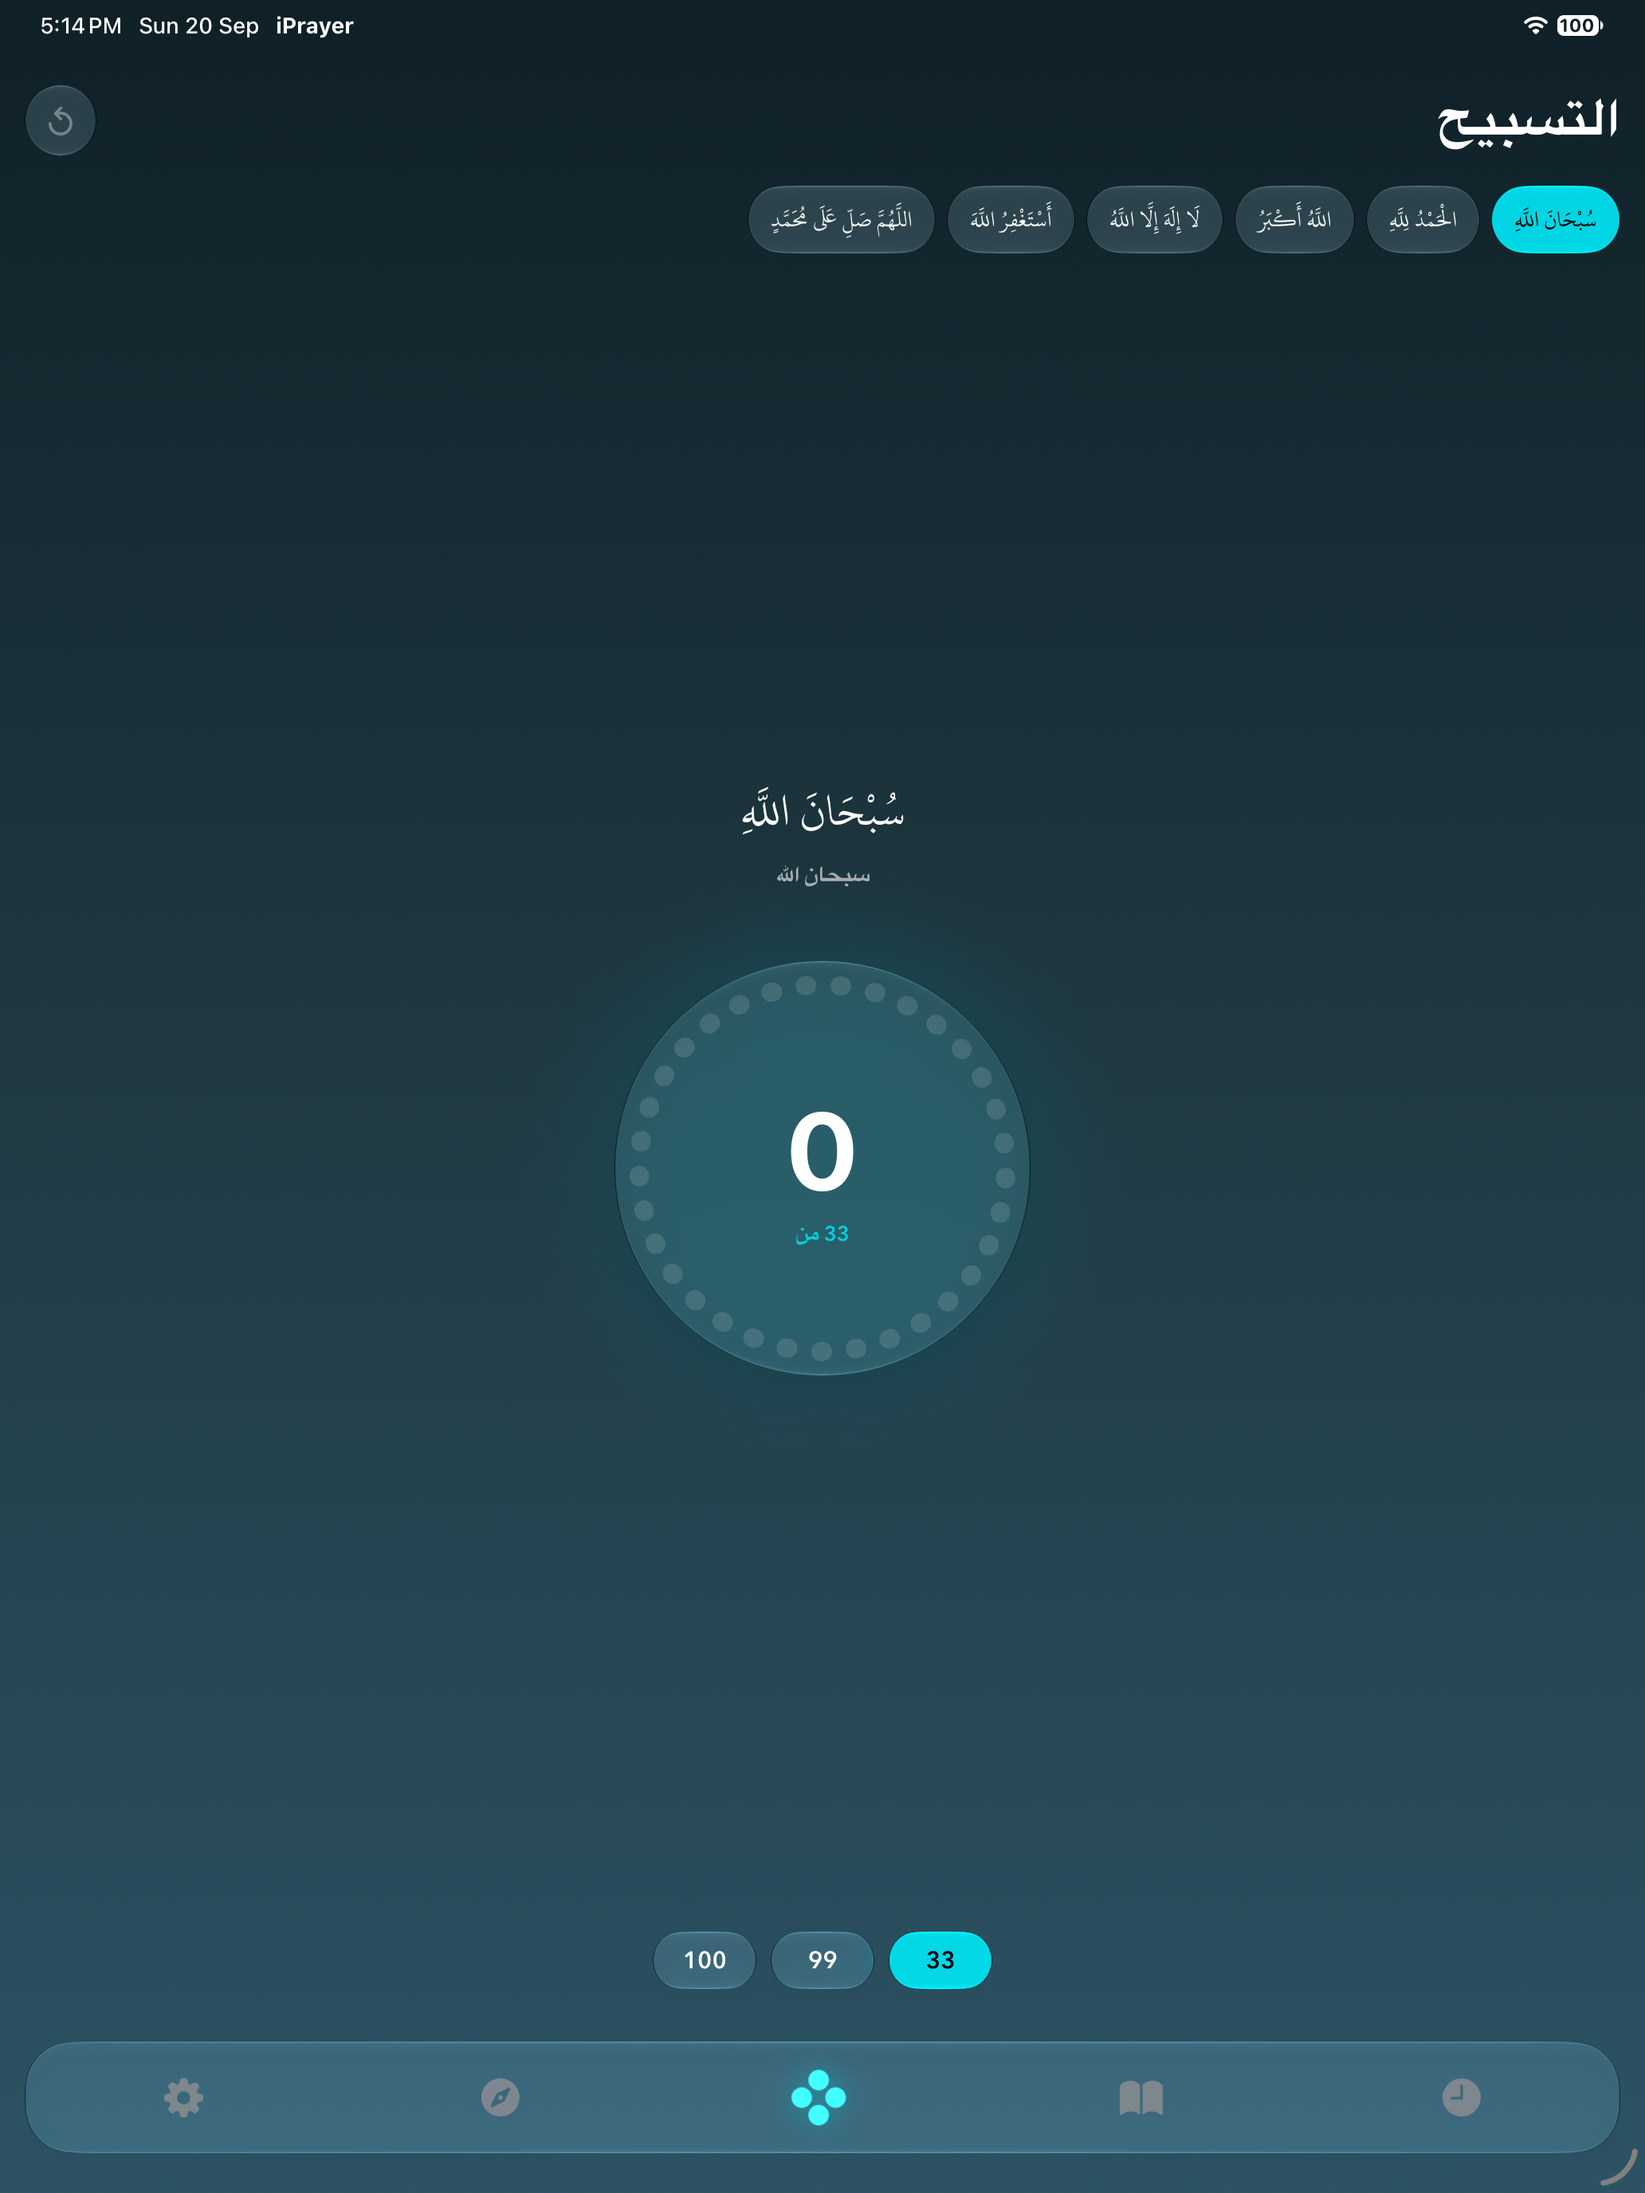
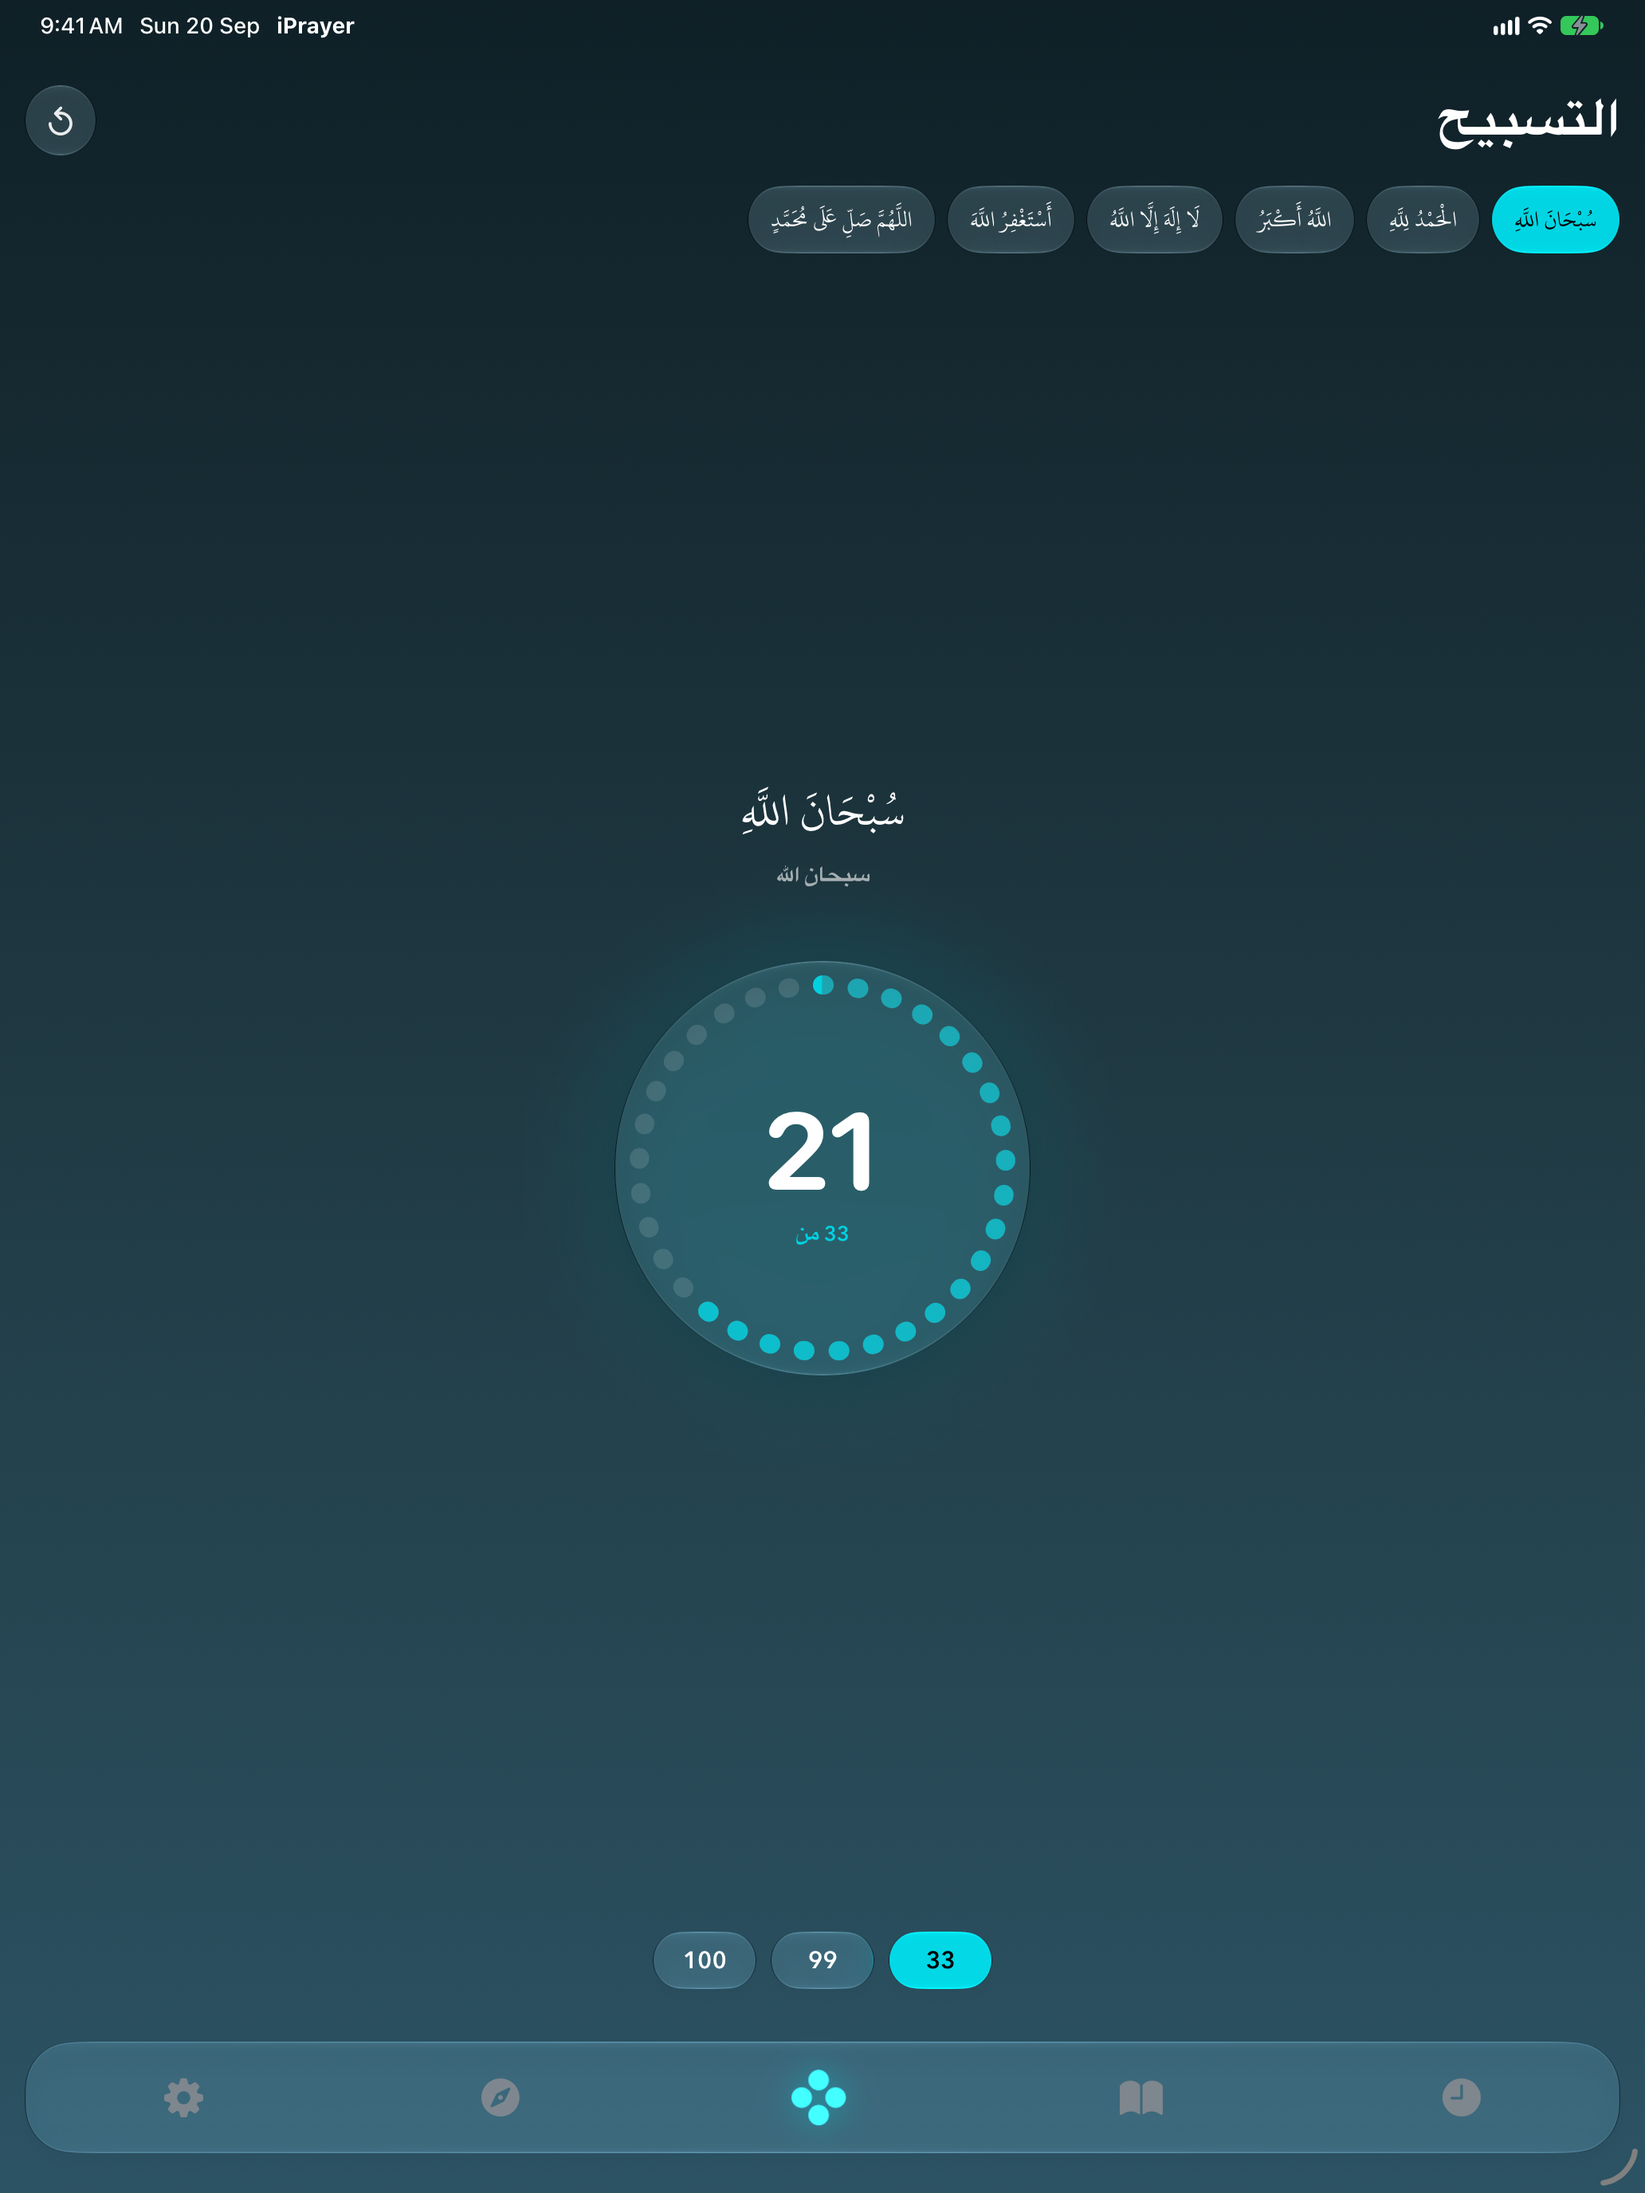
Tasbih: the bead ring fills clockwise in Arabic too
Same mechanism as the Qibla dial. A trimmed, rotated Circle is drawn geometry,
and a right-to-left layoutDirection mirrors it, so in Arabic and Urdu the beads
lit ANTI-clockwise from the top.

I had left this one alone when the audit found it, on the grounds that the count
and the number of lit beads are right either way and that filling the other way
round is arguably correct in a right-to-left interface. The owner's call is that
it should match, and that is the better answer: a tally advances the same way
whichever way the language reads, and the ring is a picture of a count rather
than a line of text.

Both Circles — the faint full ring and the lit trim — carry the pin themselves
rather than being wrapped in a new container, so nothing about the layout moves.
The count in the middle is TEXT and is deliberately not pinned.

VERIFIED by comparing the same 21-of-33 state across three builds: Arabic before
the fix lit anti-clockwise with the unlit beads on the RIGHT; Arabic after lights
clockwise with them on the LEFT, pixel-for-pixel the same geometry as the English
build, which is unchanged because `.leftToRight` inside an already-left-to-right
ancestor is a no-op.

The two Arabic Tasbih screenshots are re-taken. The English ones did not change.

diff --git a/iPrayer/Views/TasbihView.swift b/iPrayer/Views/TasbihView.swift
@@ -202,17 +202,27 @@ struct TasbihView: View {
                 .frame(width: discSize, height: discSize)
                 .glassEffect(.regular.interactive(), in: .circle)
             
-            // Beads: the faint full ring and the lit ones so far this cycle
+            // Beads: the faint full ring and the lit ones so far this cycle.
+            //
+            // Both are pinned left-to-right. A trimmed, rotated Circle is DRAWN GEOMETRY, and a
+            // right-to-left layout mirrors it — so in Arabic and Urdu the ring filled ANTI-clockwise from
+            // the top, the same mechanism that mirrored the Qibla dial (HANDOFF §3). A bead count is a
+            // tally, and a tally advances the same way whichever way the language reads.
+            //
+            // Pinned on each Circle rather than by wrapping them, so nothing about the layout moves. The
+            // count in the middle is TEXT and is deliberately left alone.
             Circle()
                 .stroke(Color.white.opacity(0.12), style: StrokeStyle(lineWidth: 12, lineCap: .round, dash: dashArray))
                 .rotationEffect(.degrees(-90))
                 .frame(width: ringSize, height: ringSize)
+                .environment(\.layoutDirection, .leftToRight)
             Circle()
                 .trim(from: 0, to: progressTrim)
                 .stroke(AngularGradient(gradient: Gradient(colors: [.teal.opacity(0.55), .teal]), center: .center),
                         style: StrokeStyle(lineWidth: 12, lineCap: .round, dash: dashArray))
                 .rotationEffect(.degrees(-90))
                 .frame(width: ringSize, height: ringSize)
+                .environment(\.layoutDirection, .leftToRight)
                 .animation(.spring(response: 0.4, dampingFraction: 0.7), value: count)
             
             VStack(spacing: 2) {

diff --git a/HANDOFF.md b/HANDOFF.md
@@ -288,10 +288,11 @@ must follow the *in-app* language (notifications, some labels) goes through
   affect English.
   **The rule: anything whose meaning is its ANGLE must be pinned; anything whose meaning is reading order
   must not.** So the dial is pinned and the text around it is not. Cardinal points are facts about the world.
-  One place still inherits the flip on purpose: the Tasbih bead ring (TasbihView.swift, the trimmed Circle
-  with `.rotationEffect(.degrees(-90))`) fills anti-clockwise in Arabic. The count and the lit-bead count are
-  right either way, and filling the other way is arguably correct in an RTL interface — unlike a compass.
-  Pin it with the same one line if that is ever decided otherwise. SF Symbol turn arrows do NOT auto-flip.
+  Two places are pinned for this reason: the Qibla dial, and the Tasbih bead ring (TasbihView.swift, the two
+  trimmed Circles with `.rotationEffect(.degrees(-90))`), which used to fill ANTI-clockwise in Arabic — the
+  owner asked for it to match. A tally advances the same way whichever way the language reads. Each Circle
+  carries the pin itself rather than being wrapped, so no layout moves, and the count in the middle is text
+  and is left alone. SF Symbol turn arrows do NOT auto-flip, so "turn left" keeps a left-turning arrow.
 - **An RTL string that opens with a Latin word flips the WHOLE paragraph to left-to-right.** Unicode bidi
   P2/P3 takes a paragraph's direction from its first STRONG character, skipping isolates — so
   `"iPrayer غير مثبّت..."` is laid out LTR and its clauses land in the wrong order on screen. This is the
